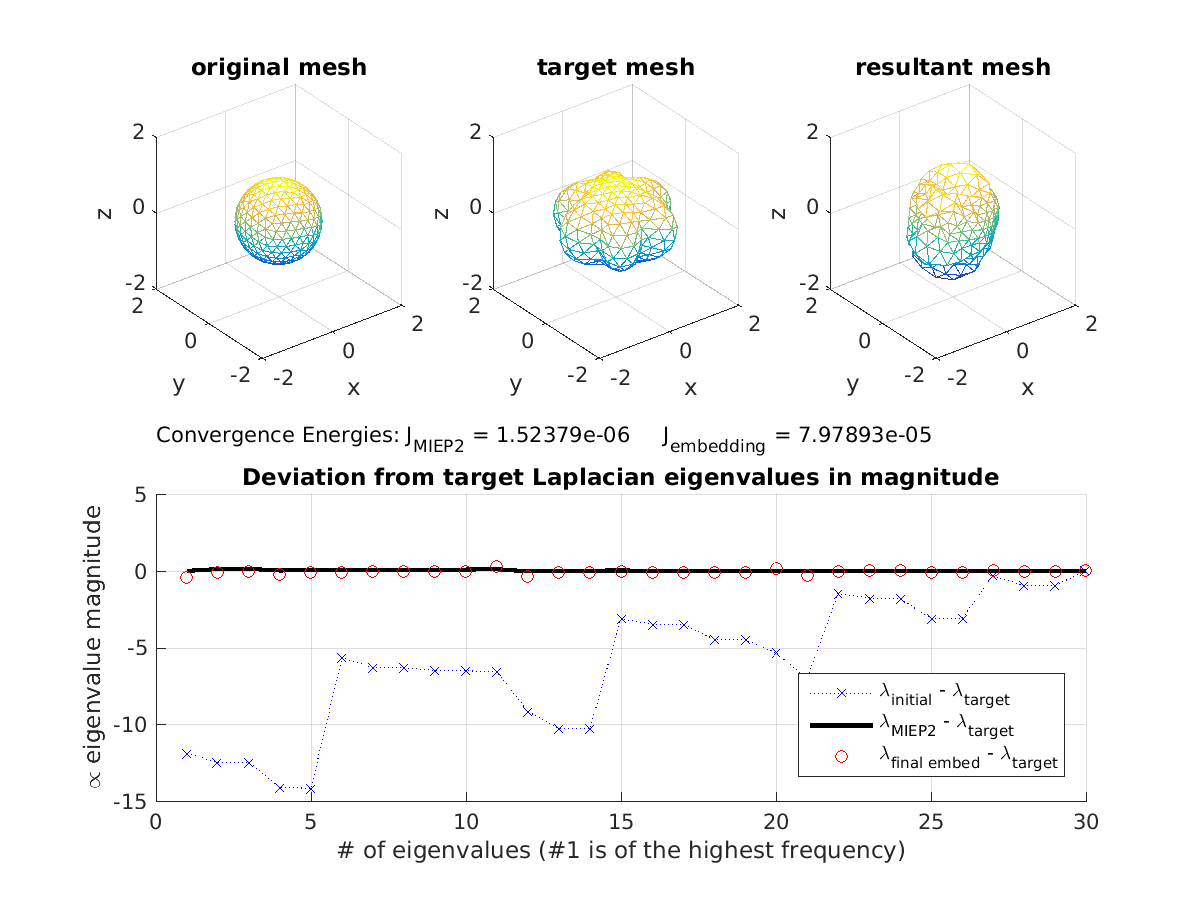
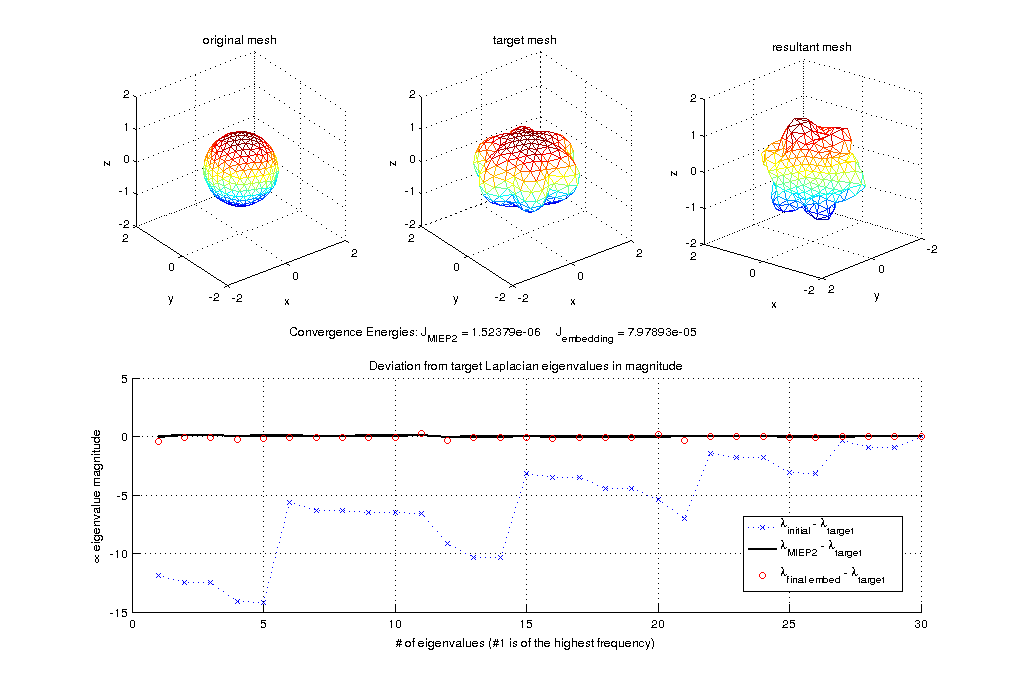
remote commit thru terminal; too lazy to type

diff --git a/test_script.m b/test_script.m
@@ -32,7 +32,7 @@ target_data.dat = @(v) abs(Y33(v));
 % target_data.dat = 'spot';
 % for pert = linspace(.3,.6,4)
 % for pert = .5
-for numeig = .1:.1:.5
+for numeig = .6:.1:1
 %% testing time
 [v,f,v_end,v_T,f_T,J_hist,Jc_hist,...
   D_0,D_T,D_endp,D_end] = main(init_data,target_data,...
@@ -63,6 +63,7 @@ trimesh(Mesh_end);
 set(gca,'xlim',[-2 2],'ylim',[-2 2],'zlim',[-2 2]);
 xlabel('x'); ylabel('y'); zlabel('z');
 title('resultant mesh');
+view([-140 20]);
 
 % compare spectra
 subplot(2,3,4:6); hold all; grid on;
@@ -88,7 +89,8 @@ ylabel('\propto eigenvalue magnitude');
 title('Deviation from target Laplacian eigenvalues in magnitude');
 
 ym = get(gca,'ylim');
-text(floor(numeig/4.5),max(ym(2) + .18*diff(ym)),...
+xm = get(gca,'xlim');
+text(floor(max(xm)/4.5),max(ym(2) + .18*diff(ym)),...
   num2str([J_hist(end) Jc_hist(end)],...
   ['Convergence Energies: J_{MIEP2} = %g     ',...
   'J_{embedding} = %g']));
